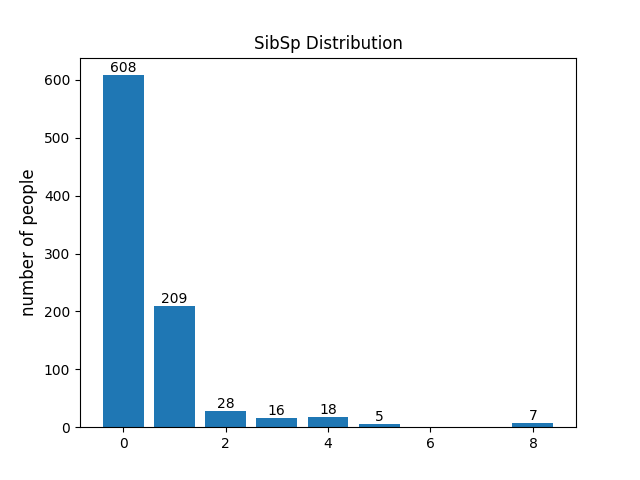
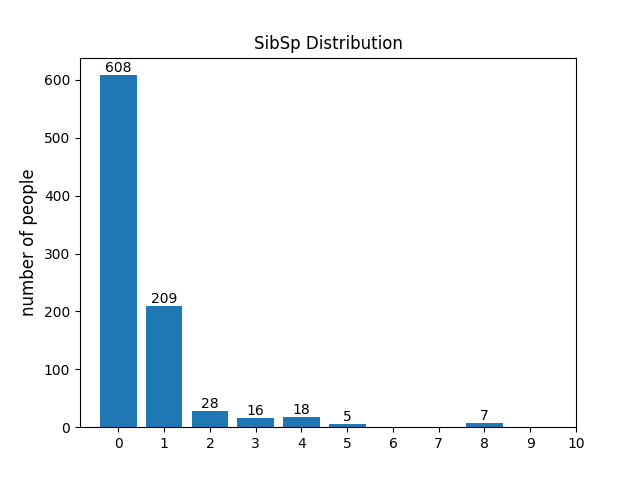
Polished

diff --git a/Surse/Cerinta2.py b/Surse/Cerinta2.py
@@ -10,18 +10,33 @@ num_rows = len(df)
 
 fig, axs = plt.subplots(1, 3)
 
+print("\n--------------------------------------------------\n")
+print("procent pers ce au supravietuit = ", round(df['Survived'].value_counts()[1] / num_rows * 100, 2), "%")
+print("procent pers ce au NU supravietuit = ", round(df['Survived'].value_counts()[0] / num_rows * 100, 2), "%")
+print("\n--------------------------------------------------\n")
 x = np.array([df['Survived'].value_counts()[1] / num_rows * 100, df['Survived'].value_counts()[0] / num_rows * 100])
 mylabels = ["Survived", "Not Survived"]
-axs[0].pie(x, autopct='%1.1f%%', labels = mylabels)
+axs[0].pie(x, autopct='%1.2f%%', labels = mylabels)
 
 y = np.array([df['Pclass'].value_counts()[1] / num_rows * 100, df['Pclass'].value_counts()[2] / num_rows * 100, df['Pclass'].value_counts()[3] / num_rows * 100])
 mylabels_class = ["First Class", "Sec Class", "Third Class"]
 axs[1].pie(y, autopct='%1.1f%%', labels = mylabels_class)
 
+print("procent pers clasa 1 = ", round(df['Pclass'].value_counts()[1] / num_rows * 100, 2), "%")
+print("procent pers clasa 2 = ", round(df['Pclass'].value_counts()[2] / num_rows * 100, 2), "%")
+print("procent pers clasa 3 = ", round(df['Pclass'].value_counts()[3] / num_rows * 100, 2), "%")
+print("\n--------------------------------------------------\n")
+
 z = np.array([df['Sex'].value_counts()['male'] / num_rows * 100, df['Sex'].value_counts()['female'] / num_rows * 100])
 mylabels_gender = ["Male", "Female"]
-axs[2].pie(z, autopct='%1.1f%%', labels = mylabels_gender)
+axs[2].pie(z, autopct='%1.2f%%', labels = mylabels_gender)
+
+print("procent barbati = ", round(df['Sex'].value_counts()['male'] / num_rows * 100, 2), "%")
+print("procent femei = ", round(df['Sex'].value_counts()['female'] / num_rows * 100, 2), "%")
+print("\n--------------------------------------------------\n")
+
 
 plt.tight_layout()
+plt.title("Survival rates / Distribution among classes / Gender distribution                                                                              ")
 plt.savefig("../Images/C2.png")
 plt.close()

diff --git a/Surse/Cerinta3.py b/Surse/Cerinta3.py
@@ -19,11 +19,12 @@ plt.close()
 
 mylabels = df['Survived'].value_counts().index
 x = df['Survived'].value_counts()
-mylabels = ["Dead", "Survived"]
+# mylabels = ["Dead", "Survived"]
 bars = plt.bar(mylabels, x)
 plt.title("Survival Distribution")
 plt.ylabel('number of people', fontsize = 12)
 plt.bar_label(bars)
+plt.xticks([0, 1])
 # plt.xticks([])
 
 plt.savefig("./../Histograms/SurvivalDist.png")
@@ -32,12 +33,13 @@ plt.close()
 ###############
 
 x = df['Pclass'].value_counts()
-mylabels = ["1", "2", "3"]
+mylabels = (df['Pclass'].value_counts().index)
 bars = plt.bar(mylabels, x)
 plt.ylabel('number of people', fontsize = 12)
 plt.xlabel('Class', fontsize = 12)
 plt.title("Pclass Distribution")
 plt.bar_label(bars)
+plt.xticks([1, 2, 3])
 
 
 
@@ -52,6 +54,7 @@ bars = plt.bar(mylabels, x)
 plt.title("SibSp Distribution")
 plt.ylabel('number of people', fontsize = 12)
 plt.bar_label(bars)
+plt.xticks([0, 1, 2, 3, 4, 5, 6, 7, 8, 9, 10])
 
 plt.savefig("./../Histograms/SibSp.png")
 plt.close()
@@ -72,7 +75,6 @@ plt.close()
 
 ###########
 
-# FareDist = df['Fare'].values.tolist()
 bars = plt.hist(df['Fare'], [0, 30, 60, 100, 200, 300, 500, 1000])
 plt.title("Fare Distribution")
 

diff --git a/Surse/Cerinta1.py b/Surse/Cerinta1.py
@@ -7,20 +7,21 @@ import seaborn as sns
 
 
 df = pd.read_csv('train.csv')
-print(df.head())
+
 num_cols = len(df.columns)
 print("nr coloane = ", num_cols)
+print("---------------------")
+print("TYPE PT FIECARE COLOANA:\n")
 print(df.dtypes)
 
-print("\n")
-
+print("---------------------")
 nan_count = df.isna().sum()
+print("NR DATE LIPSA PT FIECARE COLOANA:\n")
 print(nan_count)
-print("\n")
-
+print("---------------------")
 num_rows = len(df)
 print("nr linii = ", num_rows)
-print("\n")
+print("---------------------")
 
 if (df.duplicated().sum()):
     print("there are some duplicates\n")

diff --git a/Surse/Cerinta5and6.py b/Surse/Cerinta5and6.py
@@ -16,7 +16,7 @@ df_41_60 = df[df['Age'] <= 60]
 df_41_60 = df_41_60[df_41_60['Age'] >= 41]
 
 df_61plus = df[df['Age'] >= 61]
-
+print("\n------------------------\n")
 print(len(df_0_20), "persoane in categoria 0 - 20")
 print(len(df_21_40), "persoane in categoria 21 - 40")
 print(len(df_41_60), "persoane in categoria 41 - 60")
@@ -24,6 +24,8 @@ print(len(df_61plus), "persoane in categoria 61 +")
 
 nan_count = df.isna().sum()
 print(nan_count['Age'], "persoane nu le stim varsta")
+print("\n------------------------\n")
+
 
 
 df.insert(1, "AgeGroup", "")

diff --git a/Surse/Cerinta7.py b/Surse/Cerinta7.py
@@ -22,7 +22,7 @@ b = nr_adulti_suprav / nr_adulti * 100
 x = ([a , b])
 mylabels = ["copii", "adulti"]
 bars = plt.bar(mylabels, x)
-plt.title("% of kids that surv from nr of kids vs of adults that surv from nr of adults")
+plt.title("% of kids that surv vs % of adults that surv")
 plt.ylabel('Percentages', fontsize = 12)
 plt.bar_label(bars)
 
